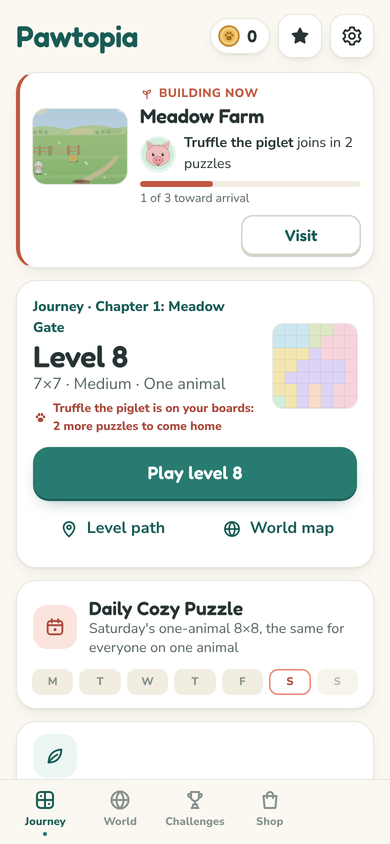
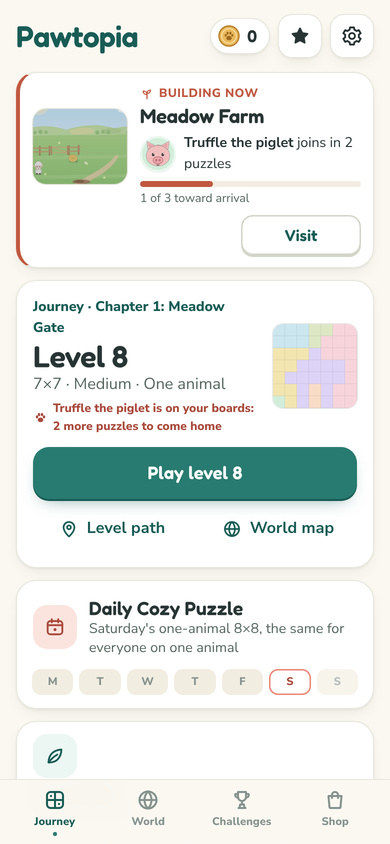
Nav: four columns for four tabs
Claude-Session: https://claude.ai/code/session_01QGLztjaSyUk6UWXSvKCXHt

Changed region(s): [[0.2769, 0.9242, 0.7385, 0.9858], [0.0615, 0.9242, 0.1846, 1.0], [0.8308, 0.9242, 0.8923, 0.9858]]

diff --git a/src/ui/styles/components.css b/src/ui/styles/components.css
@@ -293,7 +293,7 @@ body[data-nav='on'] .nav {
   max-width: var(--content-max);
   margin: 0 auto;
   display: grid;
-  grid-template-columns: repeat(5, 1fr);
+  grid-template-columns: repeat(4, 1fr);
 }
 .nav__item {
   min-height: 52px;
